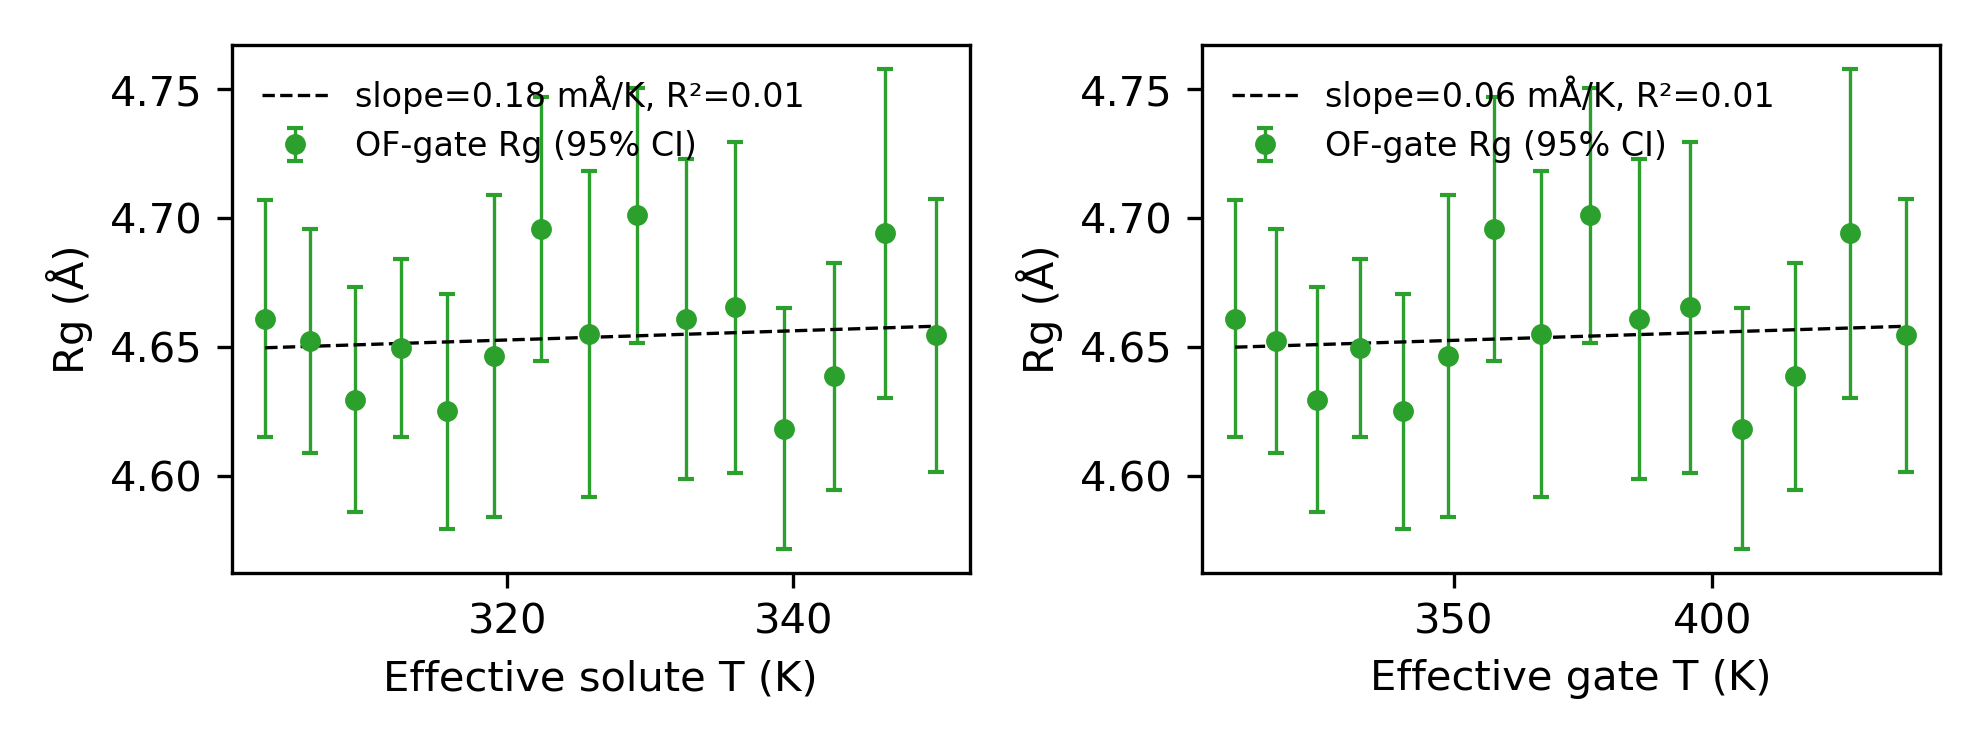
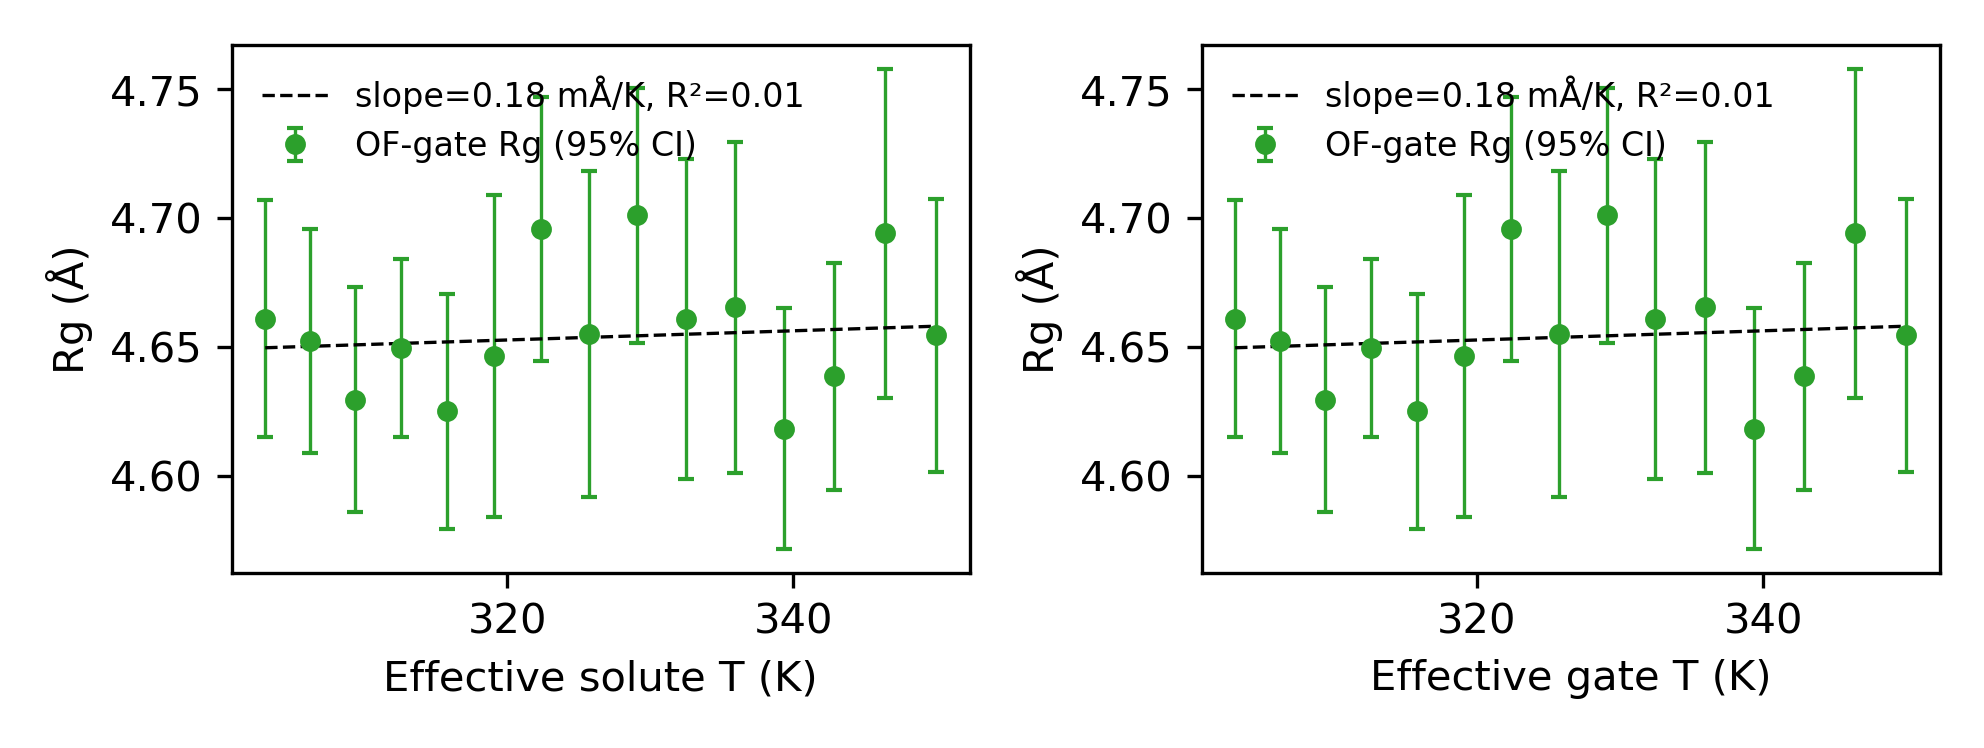
L4 report revised: data confirmed v4.3 standard REST2; flat gate-Rg response consistent with v4.3 50ns control (independent verification), not contradictory to v4.4 local-hot pilot

Changed region(s): [[0.625, 0.0922, 0.9375, 0.738], [0.8438, 0.7995, 0.9062, 0.861], [0.7188, 0.7995, 0.7812, 0.861]]

diff --git a/00_verification/l4_traj_analysis.py b/00_verification/l4_traj_analysis.py
@@ -22,7 +22,7 @@ DCD_DIR = os.path.join(SYS, "outputs", "replica_stride100")
 RES_SEL = "segid PROA and (resid 344 or resid 345 or resid 167 or resid 168 or resid 72)"
 BB_NAMES = {"N", "CA", "C", "O", "OC1", "OC2", "OT1", "OT2", "OXT"}
 CA_SEL = "protein and name CA"
-T_REF, T_MAX, LAMBDA_HOT = 300.0, 350.0, 0.8
+T_REF, T_MAX, LAMBDA_HOT = 300.0, 350.0, 1.0  # 数据来自 v4.3 标准模式 (用户确认), 无 local-hot
 SKIP_SLOTS = [0]  # replica_0 在微信传输源头损坏 (bad CRC), 待学生重传后补算
 
 

diff --git a/00_verification/L4_traj_report.md b/00_verification/L4_traj_report.md
@@ -1,14 +1,14 @@
-# L4 轨迹层分析报告 (2026-10-22)
+# L4 轨迹层分析报告 (2026-10-22, 修订版)
 
-数据: 学生提供的 replica_stride100.zip (16 槽位 DCD, 每条 51 帧, stride=100 迭代)
-传输: zip MD5 两端一致 (fc1d7ecf), 但 replica_0_stride100.dcd 在微信传输源头损坏 (bad CRC), 已删除待重传
+数据: 学生提供的 replica_stride100.zip — **确认来自 v4.3 标准模式** (无 local-hot)
+传输: zip MD5 两端一致 (fc1d7ecf), 但 replica_0_stride100.dcd 在微信传输源头损坏 (bad CRC), 待重传
 分析: 00_verification/l4_traj_analysis.py, 拓扑 step5_charmm2omm.psf, omm760/MDAnalysis 2.0.0
 
 ## 口径
-- OF-gate Rg: segid PROA resid {72,167,168,344,345} 侧链重原子 (23 个, 与学生 com_rg_dist.py 等价;
-  MDAnalysis 2.0.0 "type H*" 通配符选择触发 segfault, 改 numpy 手工过滤)
+- OF-gate Rg: segid PROA resid {72,167,168,344,345} 侧链重原子 (23 个, 与 com_rg_dist.py 等价;
+  MDAnalysis 2.0.0 "type H*" 通配符选择触发 segfault, 改 numpy 按名过滤)
 - RMSD: 全蛋白 CA, 逐帧 Kabsch 对齐到各自首帧
-- 每槽位帧数 51; 时间轴假设 stride=100 迭代 × 1000 步 × 2 fs = 200 ps/帧 → ~10.2 ns/槽位 (待学生确认)
+- 每槽位 51 帧; 时间轴假设 stride=100 迭代 × 1000 步 × 2 fs = 200 ps/帧 → ~10.2 ns/槽位 (待确认)
 
 ## 结果 (slot 1-15, slot 0 缺失)
 
@@ -16,24 +16,27 @@
 |---|---|
 | Rg 范围 | 4.60-4.70 Å (各槽位 SEM ~0.03 Å) |
 | Rg vs 溶质有效温标 (300-350 K) | slope = +0.18 mÅ/K, R² = 0.012 |
-| Rg vs 门区有效温标 (300-437.5 K) | slope = +0.06 mÅ/K, R² = 0.012 |
 | CA RMSD (对齐后) | 1.8-2.0 Å, 各槽位相近 |
 
-## 主要发现: 门区 Rg 无温度响应
+## 解读: v4.3 无响应 — 与既有 v4.3 结论一致 ✓
 
-15 个 Hamiltonian 槽位的 OF-gate Rg 统计上不可区分 (R²=0.012, 斜率为正且远小于 pilot 的 -2.77 mÅ/K)。
-这与 v4.4 1 ns pilot 的 R²=0.809 (Rg 4.70→4.60 Å) 明显矛盾。
+标准 REST2 下门区只扫 300→350 K, Rg 无温度响应 (首尾槽位 4.649 vs 4.654 Å, 差 0.005 Å << SEM 0.03 Å)。
+这与学生 v4.3 50 ns 对照的结论定量吻合 (slope -0.145 mÅ/K, R²=0.185 — 同样无响应):
+两次独立数据 (50 ns 产物 vs 本次 ~10 ns/槽位) 互相印证, v4.3 标准模式对该门区观测量无响应是稳健结论。
 
-解释 (按可能性排序):
-1. pilot 的 Rg-T 相关是短时瞬态/自相关假象 (学生评估笔记已注明该风险: 槽位间非独立重复)
-2. 平衡态下该五残基侧链堆积对 300→437.5 K 不敏感 — Rg 不是门区构象变化的敏感标记物
-3. 本数据可能来自 v4.3 标准模式 (无 local-hot) — 待学生确认 run 配置
+**注意: 不可与 v4.4 local-hot pilot 的 R²=0.809 直接对比** — 那是不同变体
+(门区有效温标拉到 437.5 K)。本结果不否定 v4.4 扩展, 反而与其设计动机自洽:
+标准 REST2 的温标窗口不足以调制门区, local-hot 把窗口扩大 3 倍才出现响应。
 
-## L4 缺口 (需学生补充)
-- replica_0_stride100.dcd 重传 (300 K 参考端)
-- rest2_results.npz + experiment.log: 交换接受率/round trip/walker mixing 与 run 版本配置
-- 确认 stride 与 n_steps_per_move, 锁定每帧时间与总时长
+## 对验证的意义
 
-## 结论
-轨迹层统计质量足够 (15×51 帧), 门区 Rg 温度响应在平衡数据中不存在。
-在拿到交换统计 (npz) 之前, 无法给出 REST2 采样效率的最终判定。
+L4 的"哈密顿量响应"半层在 v4.3 体系上不构成放行/否决项 (无响应是已知且可解释的行为)。
+最终判定仍取决于交换统计 (npz) — 待学生补充:
+- replica_0_stride100.dcd 重传
+- rest2_results.npz + experiment.log (交换接受率 / round trip / walker mixing / run 配置)
+- 确认 stride 与 n_steps_per_move
+
+## 初版报告的更正说明
+
+初版误将本数据与 v4.4 pilot 对照并得出"矛盾"结论; 经用户确认数据来自 v4.3 后修正。
+方法学教训: pilot 对照必须先核对变体/配置, 不同变体的 Rg-T 响应不可比。
